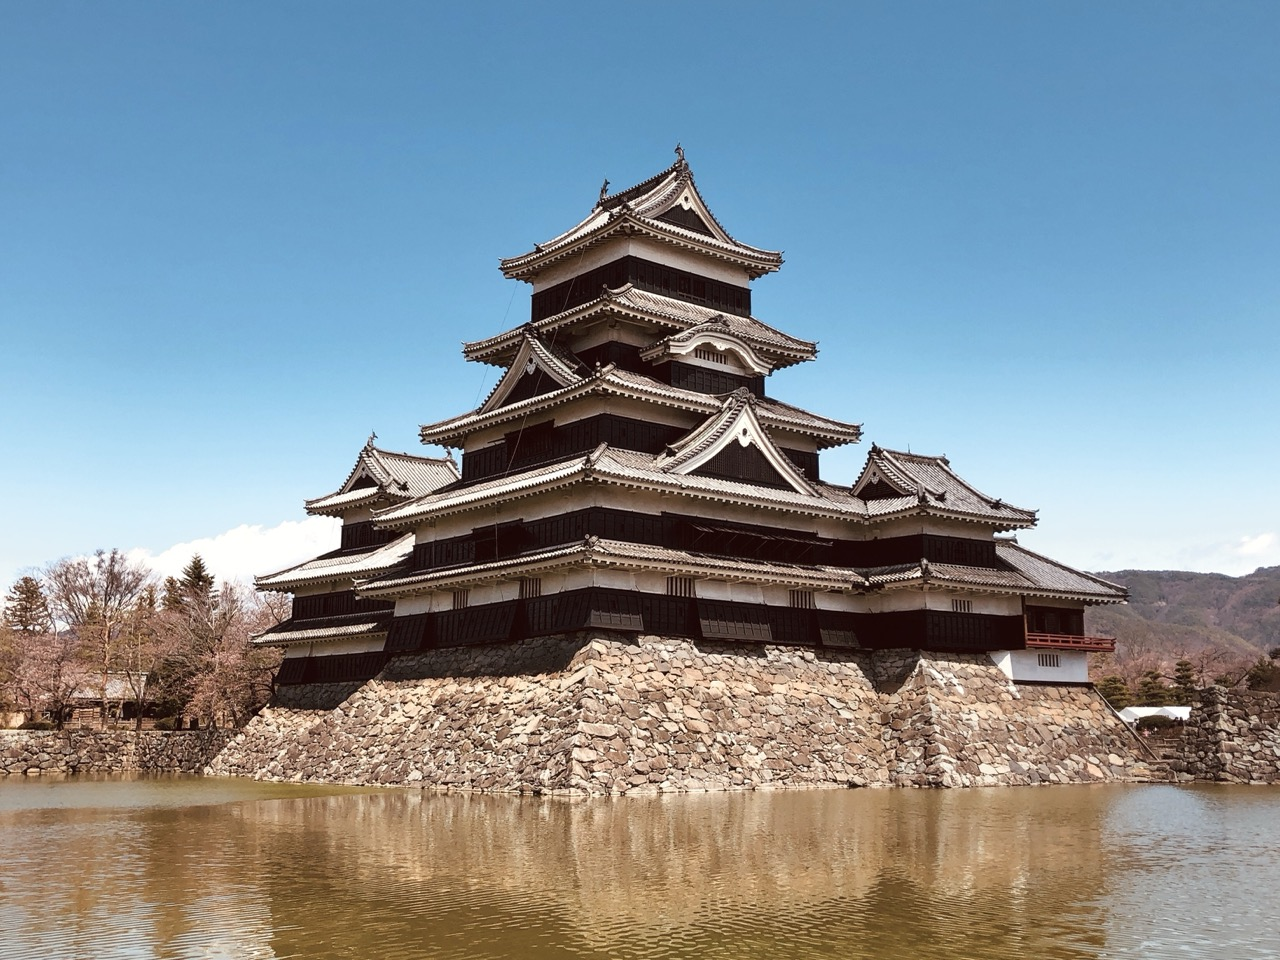
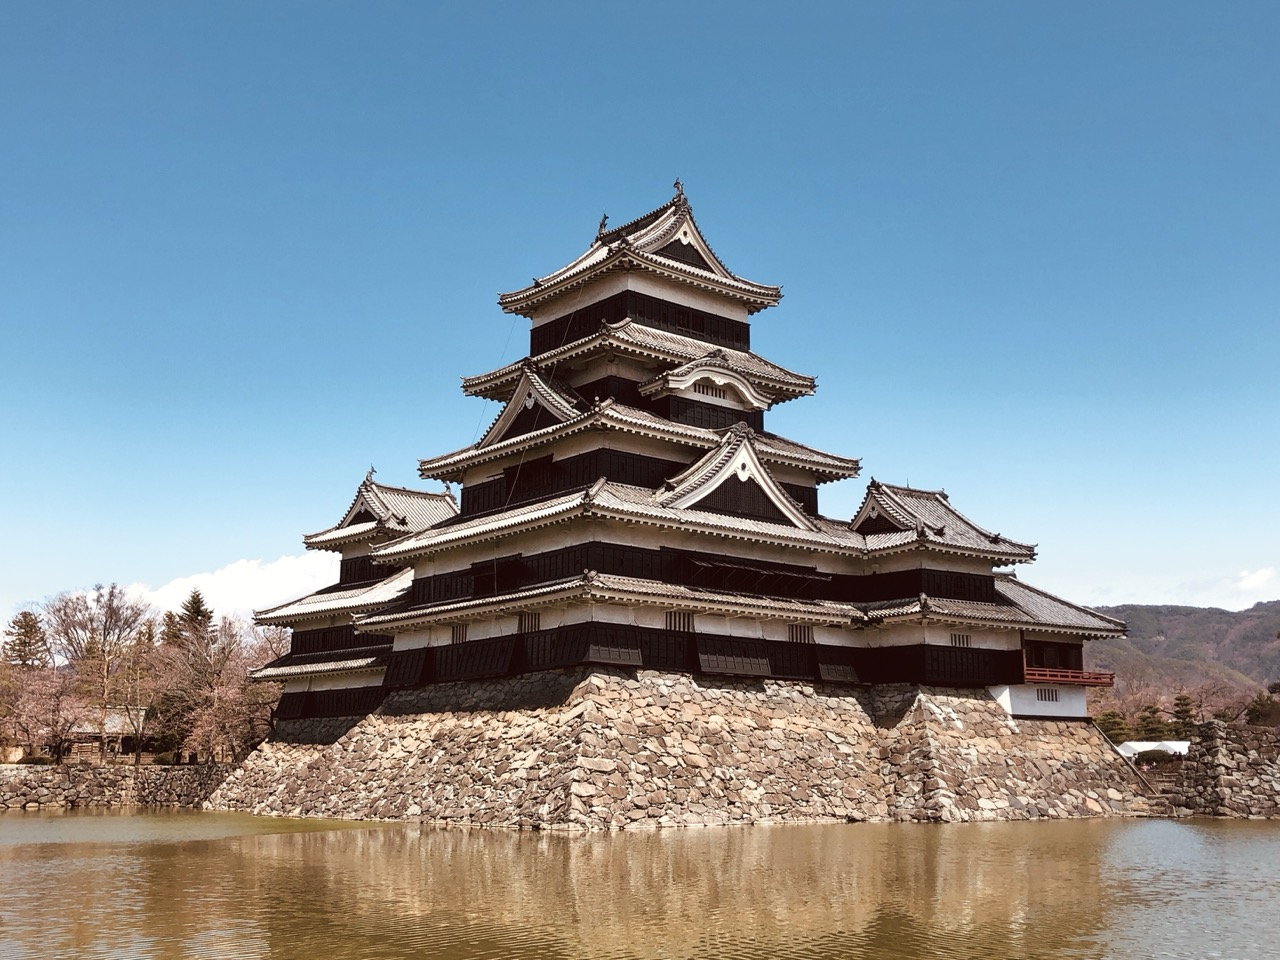
Updates to Matsumoto page

diff --git a/places/data/matsumoto.html b/places/data/matsumoto.html
@@ -24,7 +24,7 @@
 
     <figcaption class="top">
       <span class="standard">Six-story main keep with several towers, including a Tsukimi Yagura, "moon-viewing deck" (far right) </span>
-      <span class="mobile">Six-story main keep with moon-viewing deck (far right)</span>
+      <span class="mobile">Six-story keep with moon-viewing deck (far right)</span>
 
       <span><i class="fa-solid fa-camera" title=", Photo by:"></i>Tim Paik</span>
     </figcaption>
